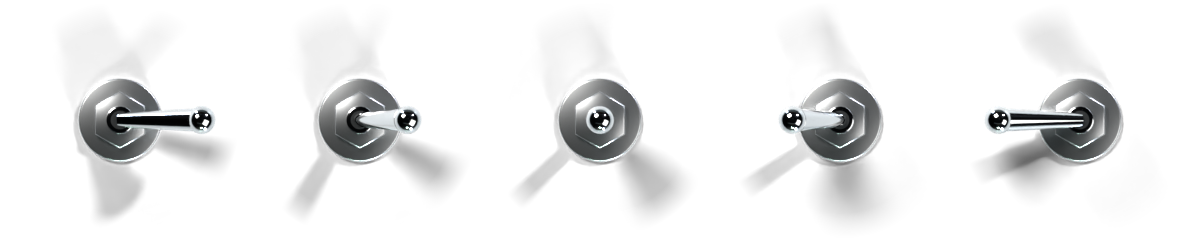
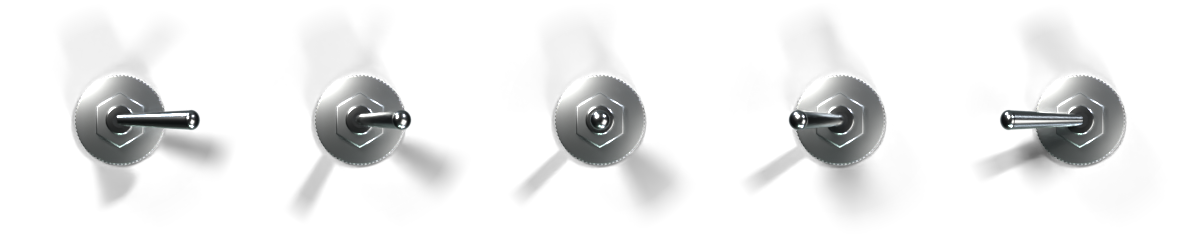
Satin-nickel bat toggles; richer VU meters
- Toggles re-modelled in the knobs' satin nickel: knurled washer, hex nut, widening bat lever;
  the shadow-catcher floor no longer shows up as a dark reflection
- VU: two-lamp backlight, finer scale with red band and percent scale, moulded pivot housing
  with zero-adjust screw, printed PEAK lamp, tapered needle, curved glass highlight

diff --git a/Source/PluginEditor.cpp b/Source/PluginEditor.cpp
@@ -241,98 +241,142 @@ void VUMeter::paint (juce::Graphics& g)
 {
     using namespace juce;
     const auto face = getLocalBounds().toFloat().reduced ((float) wellInset);
+    const Colour ink (0xff1e1710), red (0xffc4261a), paper (0xfff1e2b8);
 
-    // Warm incandescent backlight from below
-    ColourGradient light (juce::Colour (0xfffff3cf), face.getCentreX(), face.getBottom() + face.getHeight() * 0.1f,
-                          juce::Colour (0xffb98c48), face.getX() - face.getWidth() * 0.1f, face.getY(), true);
-    light.addColour (0.55, Palette::vuFace);
-    g.setGradientFill (light);
+    // Printed card lit from behind by two small incandescent lamps near the bottom corners.
+    g.setColour (paper.darker (0.22f));
     g.fillRect (face);
+    for (float fx : { 0.22f, 0.78f })
+    {
+        ColourGradient lamp (juce::Colour (0xfffff4d6).withAlpha (0.95f), face.getX() + face.getWidth() * fx, face.getBottom() + 6.0f,
+                             paper.withAlpha (0.0f), face.getX() + face.getWidth() * fx, face.getY() - face.getHeight() * 0.25f, true);
+        lamp.addColour (0.45, paper.withAlpha (0.75f));
+        g.setGradientFill (lamp);
+        g.fillRect (face);
+    }
 
     Graphics::ScopedSaveState save (g);
     g.reduceClipRegion (face.toNearestInt());
 
-    const float arcTop = face.getY() + 42.0f;
+    const float arcTop = face.getY() + 44.0f;
     const Point<float> pivot (face.getCentreX(), face.getBottom() + face.getHeight() * 0.42f);
     const float radius = pivot.y - arcTop;
     const float maxAngle = std::asin (jmin (0.95f, (face.getWidth() * 0.5f - 18.0f) / radius));
     auto angleFor = [maxAngle] (float pos) { return -maxAngle + 2.0f * maxAngle * pos; };
-    const Colour ink (0xff221a12), red (0xffc92a1c);
 
-    Path blackArc, redArc;
-    blackArc.addCentredArc (pivot.x, pivot.y, radius, radius, 0.0f, angleFor (vuPosForDb (-20.0f)), angleFor (vuPosForDb (0.0f)), true);
-    redArc.addCentredArc (pivot.x, pivot.y, radius + 1.5f, radius + 1.5f, 0.0f, angleFor (vuPosForDb (0.0f)), angleFor (1.0f), true);
+    // Main arc, with the red zone as a heavier band just inside it
+    Path arc, redBand;
+    arc.addCentredArc (pivot.x, pivot.y, radius, radius, 0.0f, angleFor (vuPosForDb (-20.0f)), angleFor (1.0f), true);
+    redBand.addCentredArc (pivot.x, pivot.y, radius - 4.0f, radius - 4.0f, 0.0f, angleFor (vuPosForDb (0.0f)), angleFor (1.0f), true);
     g.setColour (ink);
-    g.strokePath (blackArc, PathStrokeType (3.5f));
+    g.strokePath (arc, PathStrokeType (1.4f));
     g.setColour (red);
-    g.strokePath (redArc, PathStrokeType (7.0f));
+    g.strokePath (redBand, PathStrokeType (5.0f));
 
-    g.setFont (font (12.0f));
+    g.setFont (font (11.5f));
     for (float db : { -20.0f, -10.0f, -7.0f, -5.0f, -3.0f, -2.0f, -1.0f, 0.0f, 1.0f, 2.0f, 3.0f })
     {
         const float a = angleFor (vuPosForDb (db));
+        const bool major = db == -20.0f || db == -10.0f || db == -7.0f || db == -5.0f || db == -3.0f || db == 0.0f || db == 3.0f;
         g.setColour (db > 0.0f ? red : ink);
-        g.drawLine (Line<float> (polar (pivot, radius + 1.0f, a), polar (pivot, radius + 9.0f, a)), 1.5f);
+        g.drawLine (Line<float> (polar (pivot, radius, a), polar (pivot, radius + (major ? 10.0f : 6.0f), a)), major ? 1.5f : 1.1f);
         if (db == -20.0f || db == -10.0f || db == -5.0f || db == -3.0f || db == 0.0f || db == 3.0f)
         {
             const auto text = (db > 0.0f ? "+" : "") + String ((int) db);
-            g.drawText (text, Rectangle<float> (28.0f, 13.0f).withCentre (polar (pivot, radius + 19.0f, a)), Justification::centred);
+            g.drawText (text, Rectangle<float> (30.0f, 13.0f).withCentre (polar (pivot, radius + 20.0f, a)), Justification::centred);
         }
     }
 
-    g.setFont (font (9.0f));
-    g.setColour (ink.withAlpha (0.75f));
-    for (int pct : { 0, 20, 40, 60, 80, 100 })
+    // Percentage scale below the arc
+    g.setFont (font (8.5f));
+    g.setColour (ink.withAlpha (0.7f));
+    for (int pct = 0; pct <= 100; pct += 10)
     {
         const float a = angleFor ((float) pct / 100.0f / 1.4125f);
-        g.drawLine (Line<float> (polar (pivot, radius - 2.0f, a), polar (pivot, radius - 7.0f, a)), 1.0f);
-        if (pct % 50 == 0)
-            g.drawText (String (pct), Rectangle<float> (30.0f, 11.0f).withCentre (polar (pivot, radius - 14.0f, a)), Justification::centred);
+        const bool lab = pct % 50 == 0;
+        g.drawLine (Line<float> (polar (pivot, radius - 9.0f, a), polar (pivot, radius - (lab ? 15.0f : 12.0f), a)), 0.9f);
+        if (lab)
+            g.drawText (String (pct), Rectangle<float> (30.0f, 11.0f).withCentre (polar (pivot, radius - 23.0f, a)), Justification::centred);
     }
 
     const char* modeName = mode == Mode::input ? "INPUT" : mode == Mode::output ? "OUTPUT" : "ECHO DUCK";
     g.setColour (ink);
-    g.setFont (font (24.0f, true));
-    g.drawText ("VU", Rectangle<float> (face.getX(), face.getBottom() - 70.0f, face.getWidth(), 26.0f), Justification::centred);
-    g.setFont (font (11.0f));
+    g.setFont (font (25.0f).withExtraKerningFactor (0.12f));
+    g.drawText ("VU", Rectangle<float> (face.getX(), face.getBottom() - 74.0f, face.getWidth(), 26.0f), Justification::centred);
+    g.setFont (font (9.5f).withExtraKerningFactor (0.2f));
+    g.setColour (ink.withAlpha (0.8f));
+    g.drawText (modeName, Rectangle<float> (face.getX(), face.getBottom() - 50.0f, face.getWidth(), 12.0f), Justification::centred);
+
+    // Built-in peak lamp with its printed legend
+    const Point<float> led (face.getRight() - 16.0f, face.getY() + 16.0f);
+    g.setFont (font (7.5f).withExtraKerningFactor (0.15f));
     g.setColour (ink.withAlpha (0.75f));
-    g.drawText (modeName, Rectangle<float> (face.getX(), face.getBottom() - 46.0f, face.getWidth(), 13.0f), Justification::centred);
+    g.drawText ("PEAK", Rectangle<float> (led.x - 46.0f, led.y - 5.0f, 34.0f, 10.0f), Justification::centredRight);
+    drawJewel (g, led, 3.4f, Palette::lampRed, peakLamp);
 
+    // Needle: tapered, with a soft shadow on the card
     const float a = angleFor (needle);
-    g.setColour (juce::Colours::black.withAlpha (0.18f));
-    g.drawLine (Line<float> (pivot.translated (3.0f, 5.0f), polar (pivot, radius + 12.0f, a).translated (3.0f, 5.0f)), 2.2f);
-    g.setColour (juce::Colour (0xff120d0a));
-    g.drawLine (Line<float> (pivot, polar (pivot, radius + 12.0f, a)), 1.4f);
+    auto needlePath = [&] (Point<float> offset)
+    {
+        const auto tip = polar (pivot, radius + 12.0f, a) + offset;
+        const auto base = pivot + offset;
+        const auto n = Point<float> (std::cos (a), std::sin (a));
+        Path p;
+        p.startNewSubPath (base + n * 1.3f);
+        p.lineTo (tip + n * 0.45f);
+        p.lineTo (tip - n * 0.45f);
+        p.lineTo (base - n * 1.3f);
+        p.closeSubPath();
+        return p;
+    };
+    g.setColour (juce::Colours::black.withAlpha (0.16f));
+    g.fillPath (needlePath ({ 3.0f, 5.0f }));
+    g.setColour (juce::Colour (0xff15100b));
+    g.fillPath (needlePath ({}));
 
-    auto dome = Rectangle<float> (face.getWidth() * 0.42f, 22.0f).withCentre ({ face.getCentreX(), face.getBottom() });
-    g.setGradientFill (ColourGradient (juce::Colour (0xff3a3632), dome.getCentreX(), dome.getY(),
-                                       juce::Colour (0xff0c0b0a), dome.getCentreX(), dome.getBottom(), false));
-    g.fillEllipse (dome);
-    g.setColour (juce::Colours::white.withAlpha (0.15f));
-    g.drawEllipse (dome.reduced (1.0f), 0.8f);
+    // Moulded pivot housing with the mechanical zero-adjust screw
+    const float hr = face.getWidth() * 0.2f;
+    const Point<float> hc (face.getCentreX(), face.getBottom() + 4.0f);
+    g.setGradientFill (ColourGradient (juce::Colour (0xff4a4540), hc.x - hr * 0.3f, hc.y - hr,
+                                       juce::Colour (0xff0b0a09), hc.x + hr * 0.4f, hc.y, false));
+    g.fillEllipse (hc.x - hr, hc.y - hr * 0.62f, hr * 2.0f, hr * 1.24f);
+    g.setColour (juce::Colours::white.withAlpha (0.18f));
+    g.drawEllipse (hc.x - hr + 1.0f, hc.y - hr * 0.62f + 1.0f, hr * 2.0f - 2.0f, hr * 1.24f - 2.0f, 0.8f);
+    const Point<float> sc (hc.x, hc.y - hr * 0.3f);
+    g.setGradientFill (ColourGradient (juce::Colour (0xffd6d3cc), sc.x - 4.0f, sc.y - 4.0f, juce::Colour (0xff5d5a54), sc.x + 4.0f, sc.y + 4.0f, false));
+    g.fillEllipse (sc.x - 4.5f, sc.y - 4.5f, 9.0f, 9.0f);
+    g.setColour (juce::Colour (0xff2a2826));
+    g.drawLine (sc.x - 3.2f, sc.y + 0.8f, sc.x + 3.2f, sc.y - 0.8f, 1.2f);
 
-    // Shadows cast by the bezel, then the glass
-    g.setGradientFill (ColourGradient (juce::Colours::black.withAlpha (0.55f), 0.0f, face.getY(),
-                                       juce::Colours::transparentBlack, 0.0f, face.getY() + 22.0f, false));
-    g.fillRect (face.withHeight (22.0f));
-    g.setGradientFill (ColourGradient (juce::Colours::black.withAlpha (0.3f), face.getX(), 0.0f,
-                                       juce::Colours::transparentBlack, face.getX() + 14.0f, 0.0f, false));
-    g.fillRect (face.withWidth (14.0f));
-    g.setGradientFill (ColourGradient (juce::Colours::black.withAlpha (0.2f), face.getRight(), 0.0f,
-                                       juce::Colours::transparentBlack, face.getRight() - 12.0f, 0.0f, false));
-    g.fillRect (face.withTrimmedLeft (face.getWidth() - 12.0f));
+    // Shadows cast by the bezel onto the card
+    g.setGradientFill (ColourGradient (juce::Colours::black.withAlpha (0.5f), 0.0f, face.getY(),
+                                       juce::Colours::transparentBlack, 0.0f, face.getY() + 20.0f, false));
+    g.fillRect (face.withHeight (20.0f));
+    g.setGradientFill (ColourGradient (juce::Colours::black.withAlpha (0.28f), face.getX(), 0.0f,
+                                       juce::Colours::transparentBlack, face.getX() + 12.0f, 0.0f, false));
+    g.fillRect (face.withWidth (12.0f));
+    g.setGradientFill (ColourGradient (juce::Colours::black.withAlpha (0.18f), face.getRight(), 0.0f,
+                                       juce::Colours::transparentBlack, face.getRight() - 10.0f, 0.0f, false));
+    g.fillRect (face.withTrimmedLeft (face.getWidth() - 10.0f));
 
+    // Glass: a broad soft reflection plus a crisp curved highlight of the studio light
     Path glare;
     glare.startNewSubPath (face.getX(), face.getY());
     glare.lineTo (face.getX() + face.getWidth() * 0.55f, face.getY());
     glare.lineTo (face.getX() + face.getWidth() * 0.25f, face.getBottom());
     glare.lineTo (face.getX(), face.getBottom());
     glare.closeSubPath();
-    g.setGradientFill (ColourGradient (juce::Colours::white.withAlpha (0.14f), face.getX(), face.getY(),
+    g.setGradientFill (ColourGradient (juce::Colours::white.withAlpha (0.12f), face.getX(), face.getY(),
                                        juce::Colours::transparentWhite, face.getX() + face.getWidth() * 0.4f, face.getCentreY(), false));
     g.fillPath (glare);
 
-    drawJewel (g, { face.getRight() - 13.0f, face.getY() + 15.0f }, 3.5f, Palette::lampRed, peakLamp);
+    Path sheen;
+    sheen.addCentredArc (face.getCentreX(), face.getY() + face.getHeight() * 1.6f, face.getWidth() * 1.25f, face.getHeight() * 1.5f,
+                         0.0f, -0.42f, 0.18f, true);
+    g.setColour (juce::Colours::white.withAlpha (0.06f));
+    g.strokePath (sheen, PathStrokeType (7.0f, PathStrokeType::curved, PathStrokeType::rounded));
+    g.setColour (juce::Colours::white.withAlpha (0.10f));
+    g.strokePath (sheen, PathStrokeType (1.5f, PathStrokeType::curved, PathStrokeType::rounded));
 }
 
 //==============================================================================

diff --git a/tools/render_controls.py b/tools/render_controls.py
@@ -76,6 +76,7 @@ def reset_scene(res_x, res_y, ortho_scale, samples=128):
     bpy.ops.mesh.primitive_plane_add(size=40, location=(0, 0, 0))
     floor = bpy.context.active_object
     floor.is_shadow_catcher = True
+    floor.visible_glossy = False
     return scene
 
 
@@ -279,42 +280,41 @@ def build_chicken_knob():
 
 
 def build_toggle(tilt_deg, horizontal=False):
-    chrome = material("Chrome", (0.95, 0.95, 0.95), metallic=1.0, rough=0.07)
-    satin = material("Satin", (0.85, 0.85, 0.84), metallic=1.0, rough=0.28)
+    """Bat-handle toggle in satin nickel (same finish family as the aluminium knobs):
+    knurled escutcheon washer, hex nut, threaded bushing and a lever that thickens towards its rounded end."""
+    nickel = material("Nickel", (0.80, 0.80, 0.78), metallic=1.0, rough=0.2)
+    satin = material("SatinNickel", (0.78, 0.78, 0.76), metallic=1.0, rough=0.32)
     hole = material("Hole", (0.01, 0.01, 0.01), rough=0.6)
 
-    ring = cylinder("Ring", 0.90, 0.0, 0.10)
-    assign(ring, satin); smooth(ring, 0.04, 3)
-    nut = cylinder("Nut", 0.62, 0.0, 0.30, n=6)
+    washer = prism("Washer", knurl_points(0.98, 0.95, 72), 0.0, 0.07)
+    assign(washer, satin); smooth(washer, 0.01, 2)
+    nut = cylinder("Nut", 0.6, 0.0, 0.26, n=6)
     nut.rotation_euler.z = math.radians(30)
-    assign(nut, satin); smooth(nut, 0.03, 2, limit_angle=60)
-    bushing = cylinder("Bushing", 0.30, 0.0, 0.42)
-    assign(bushing, chrome); smooth(bushing, 0.03, 2)
-    inner = cylinder("HoleC", 0.20, 0.0, 0.425)
+    assign(nut, satin); smooth(nut, 0.035, 3, limit_angle=60)
+    bushing = cylinder("Bushing", 0.32, 0.0, 0.40)
+    assign(bushing, nickel); smooth(bushing, 0.04, 3)
+    inner = cylinder("HoleC", 0.17, 0.0, 0.405)
     assign(inner, hole)
 
-    # Bat-handle lever: tapered shaft + ball tip, tilted towards +Y (on) or -Y (off)
-    lever_len = 2.0
-    shaft = prism("Shaft", circle_points(1.0, 48), 0.0, lever_len)
-    shaft.scale = (0.16, 0.16, 1.0)
-    m = shaft.modifiers.new("Taper", "SIMPLE_DEFORM")
-    m.deform_method = "TAPER"
-    m.factor = 0.6
-    m.deform_axis = "Z"
-    assign(shaft, chrome); smooth(shaft)
-    bpy.ops.mesh.primitive_uv_sphere_add(radius=0.30, segments=48, ring_count=24, location=(0, 0, lever_len))
-    ball = bpy.context.active_object
-    assign(ball, chrome); smooth(ball)
+    # Bat handle: a cone widening from the pivot, closed by a rounded end
+    lever_len = 1.75
+    bpy.ops.mesh.primitive_cone_add(vertices=64, radius1=0.13, radius2=0.21, depth=lever_len, location=(0, 0, lever_len / 2))
+    shaft = bpy.context.active_object
+    assign(shaft, nickel); smooth(shaft)
+    bpy.ops.mesh.primitive_uv_sphere_add(radius=0.215, segments=48, ring_count=24, location=(0, 0, lever_len))
+    tip = bpy.context.active_object
+    tip.scale.z = 0.8
+    assign(tip, nickel); smooth(tip)
     lever = bpy.data.objects.new("Lever", None)
     bpy.context.scene.collection.objects.link(lever)
-    lever.location = (0, 0, 0.35)
+    lever.location = (0, 0, 0.32)
     shaft.parent = lever
-    ball.parent = lever
+    tip.parent = lever
     if horizontal:
         lever.rotation_euler.y = math.radians(tilt_deg)   # positive = lever to the right
     else:
         lever.rotation_euler.x = math.radians(-tilt_deg)  # positive = lever up
-    return group([ring, nut, bushing, inner, lever])
+    return group([washer, nut, bushing, inner, lever])
 
 
 # ---------------------------------------------------------------- render jobs
